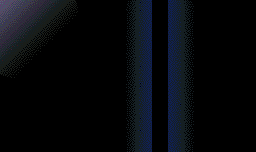
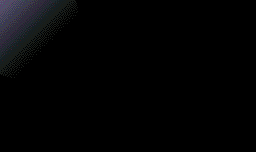
Tweaks and fx

Changed region(s): [[0.6562, 0.0, 0.75, 1.0], [0.5, 0.0, 0.5938, 1.0]]

diff --git a/arm9/source/mmll.h b/arm9/source/mmll.h
@@ -118,6 +118,7 @@
 #include "../build/FXCasablanca.h"
 #include "../build/FXBlood.h"
 #include "../build/FXBulb.h"
+#include "../build/FXBlinks.h"
 
 @ death animations
 
@@ -295,6 +296,8 @@
 #define FX_MALLOW					8
 #define FX_CSTARS					9
 #define FX_BLOOD					10
+#define FX_BULB						11
+#define FX_BLINKS					12
 
 @ / these are sprite active values used by drawsprite
 #define DUST_ACTIVE					2
@@ -312,6 +315,7 @@
 #define FX_MALLOW_ACTIVE			14
 #define FX_CSTARS_ACTIVE			15
 #define FX_CFLAG_ACTIVE				16
+#define FX_BLINKS_ACTIVE			17
 
 @ / these are various animation settings
 #define DUST_FRAME					60			@ start frame (or only frame)
@@ -364,6 +368,13 @@
 #define CFLAG_FRAME					24
 #define CFLAG_FRAME_END				31
 #define CFLAG_ANIM					10
+
+#define BULB_FRAME					24
+
+#define BLINKS_FRAME				24
+#define BLINKS_FRAME_END			31
+#define BLINKS_ANIM					8
+
 @ level defines
 
 #define EXIT_CLOSED					64
